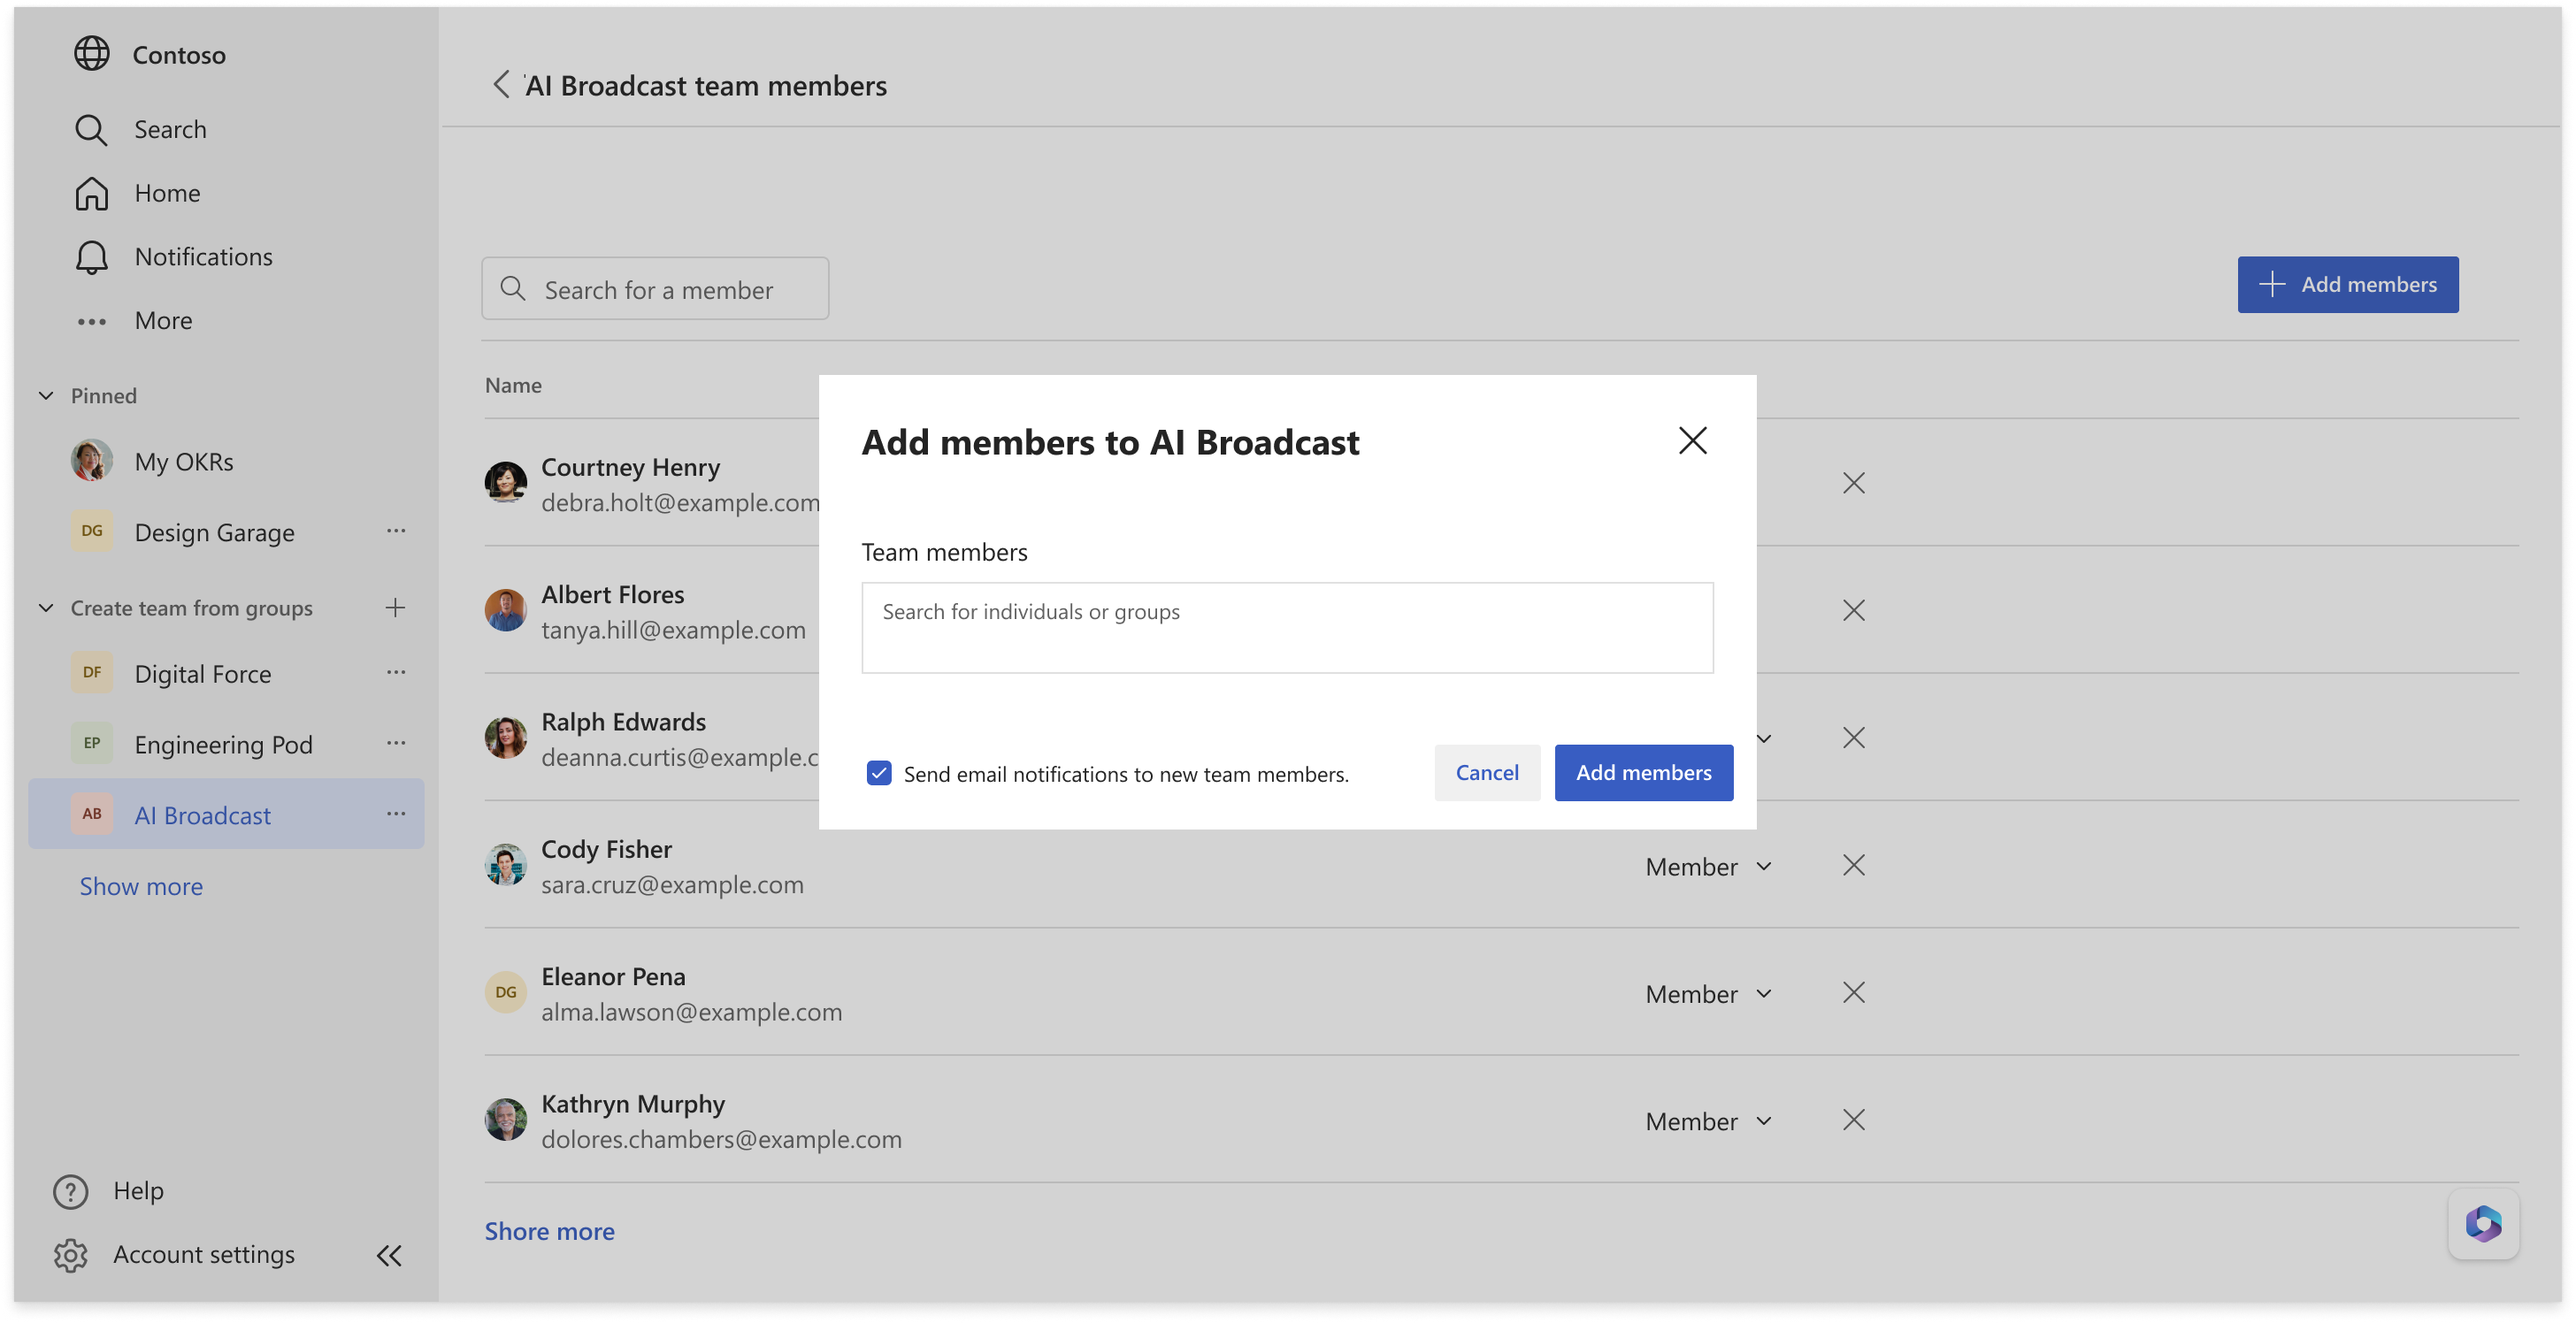
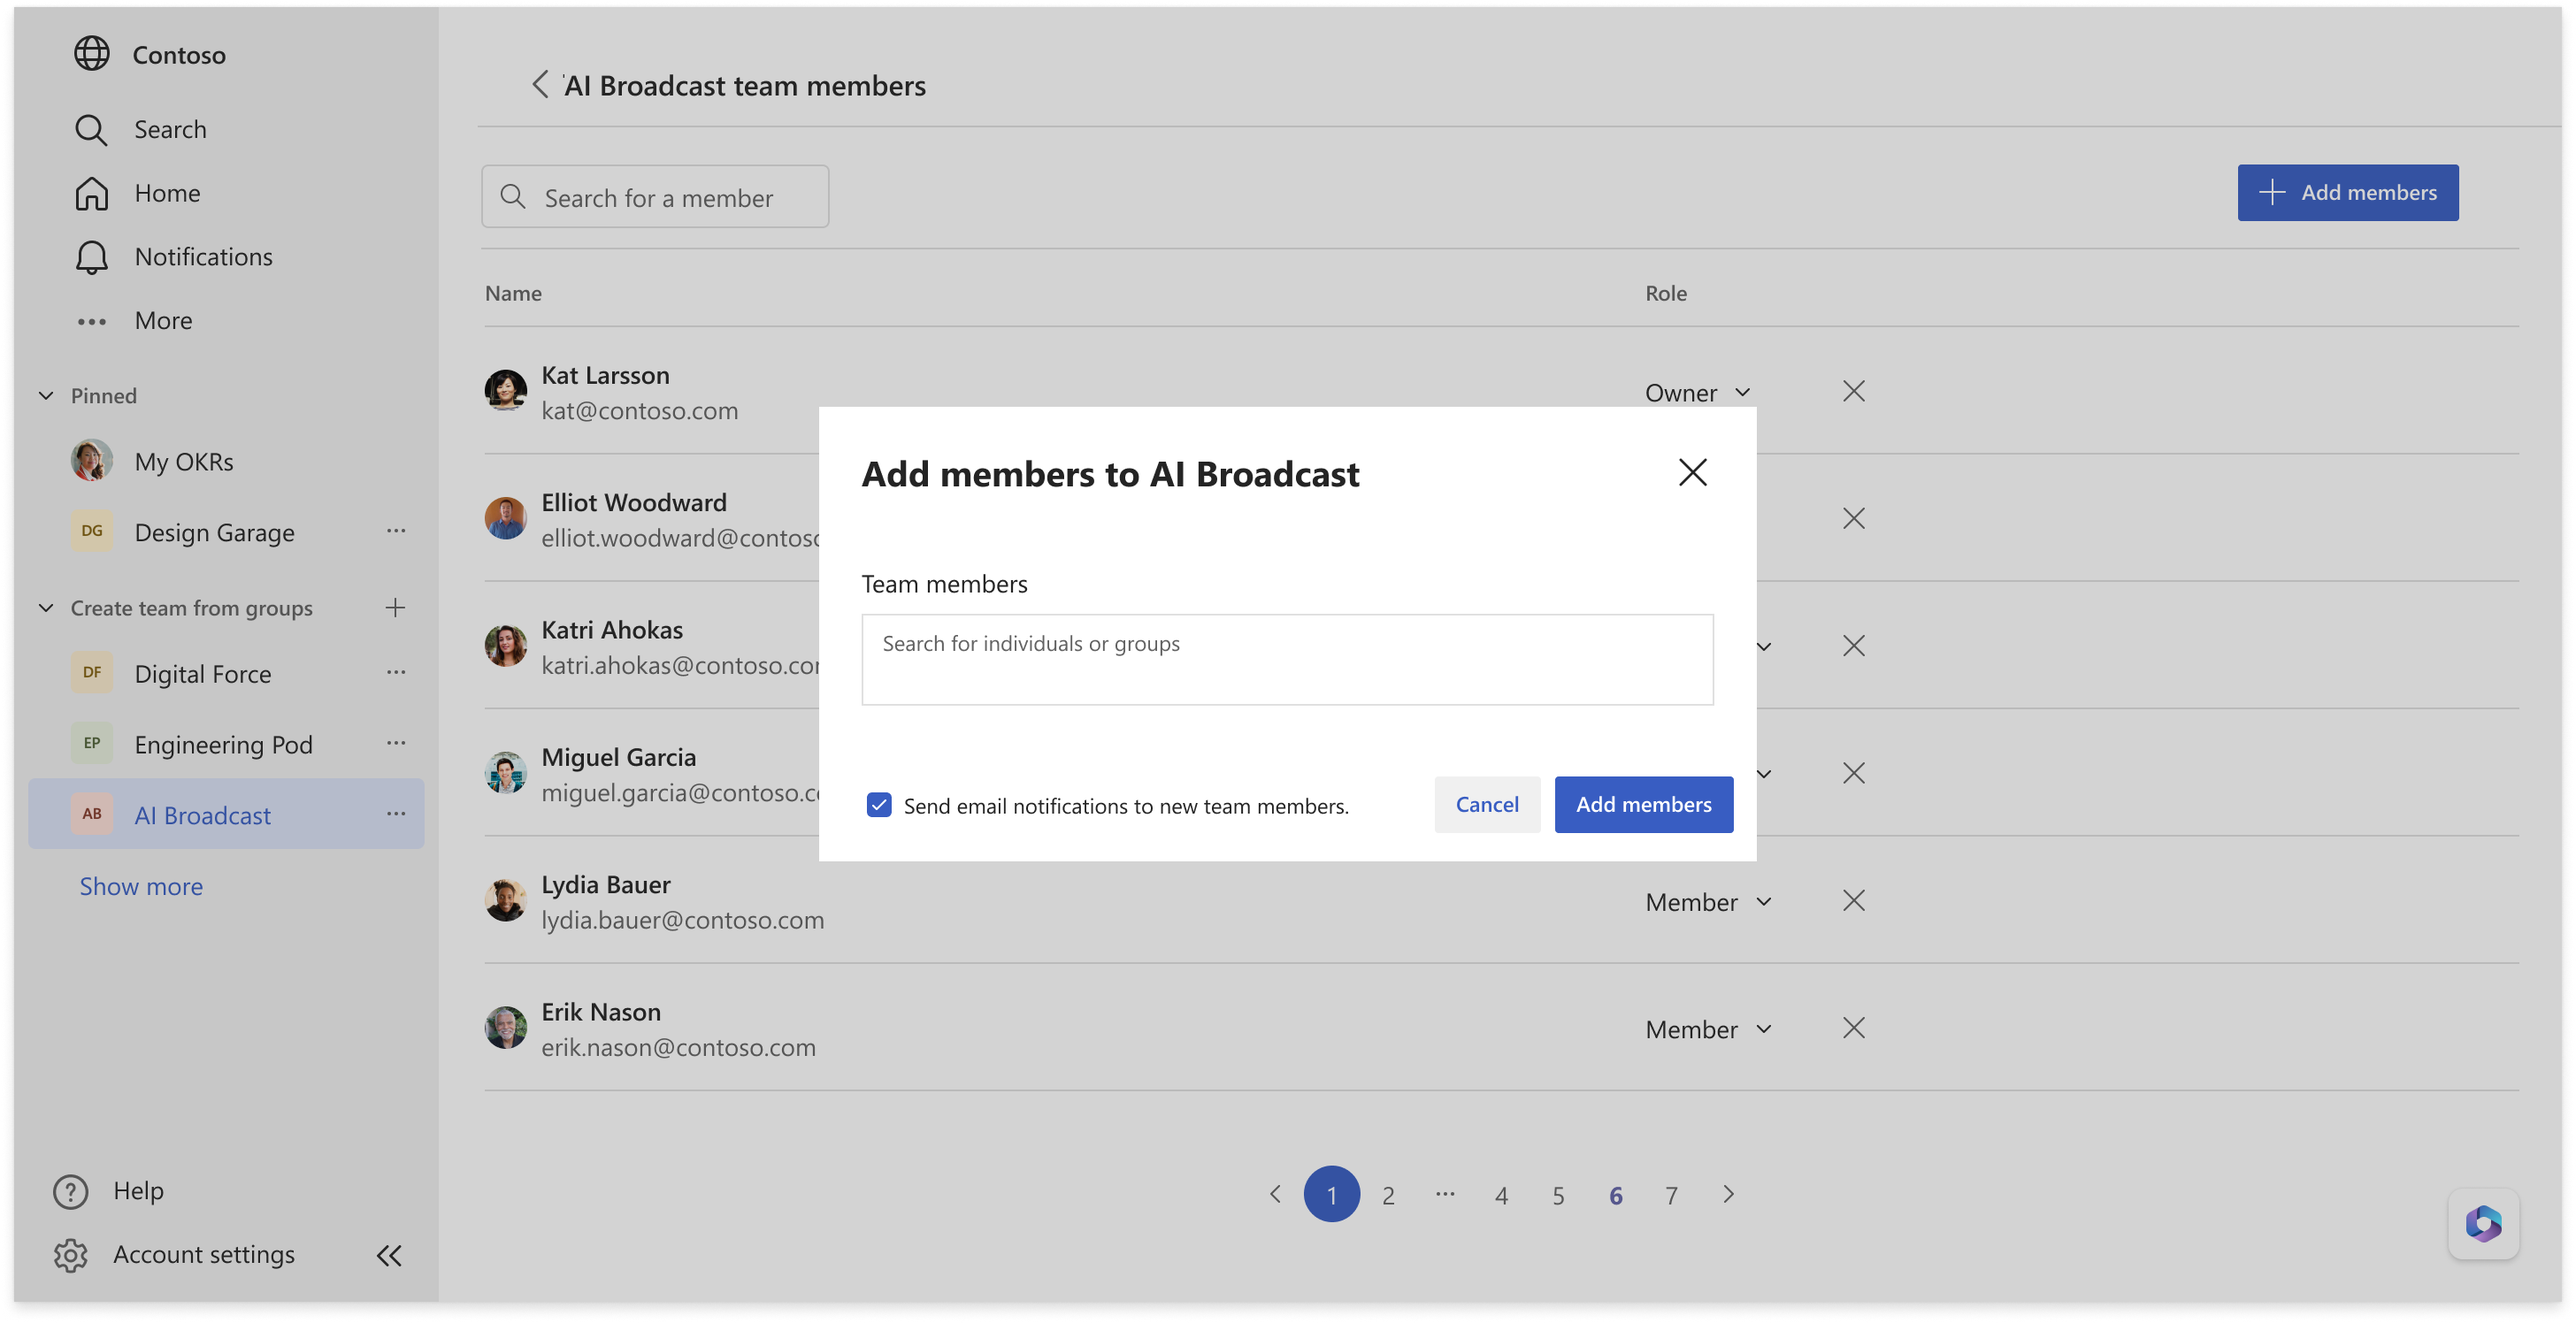
CELA images and editor's notes
Replaced necessary images with versions featuring CELA-improved names and removed editor's notes.

diff --git a/Viva/goals/delete-archive-restore-m365-group-connected-team.md b/Viva/goals/delete-archive-restore-m365-group-connected-team.md
@@ -1,5 +1,5 @@
 ---
-ms.date: 01/23/2024
+ms.date: 02/28/2024
 title: Delete, archive, or restore a Microsoft 365 group-connected team
 ms.reviewer: 
 ms.author: v-nstockwell
@@ -36,7 +36,7 @@ If the connected group is deleted, the Viva Goals team connected to that group w
 
 In general, it's better to archive teams that are no longer in service so that the collection of teams remains relevant for use. Once a team has been archived, you'll no longer be able to create OKRs and initiatives for that team, and no user will be considered a part of that team. Furthermore, any subteams will become independent teams in Viva Goals. OKRs previously assigned to the archived team will still be accessible: that is, you'll still be able to perform actions on them, such as check-ins.
 
-Even though you won't be able to see the archived team on the All Teams page <!--Editor's Note: I'd like clarification on "All Teams" vs "Teams" tab. Are they the same? If so, which is correct? Let's make sure we're using the correct terminology here. Claririfcation: "All Teams" is a page. "Teams" is a tab.-->now, you will be able to see the assigned OKRs by expanding the parent OKRs they're aligned to. you can also view those OKRs and initiatives in the Explorer by applying the **Type** filter and selecting the archived team's name.
+Even though you won't be able to see the archived team on the All Teams page now, you will be able to see the assigned OKRs by expanding the parent OKRs they're aligned to. you can also view those OKRs and initiatives in the Explorer by applying the **Type** filter and selecting the archived team's name.
 
 Any activities related to the archive team will be halted, including the assigning of new team members and any team-level notifications. These activities won't resume unless the team is restored.
 
@@ -50,7 +50,7 @@ Once a team has been archived, it will be marked as **Archived** on the **Teams*
 
 ## Restore an archived team
 
-Archiving a team isn't permanent. To restore an archived team, go to **Admin** > **Teams** > **Actions** and select **Restore** for the team you want to restore. Alternatively, you can visit the team's OKRs page, select the three dots in the upper right, and choose **Restore this team**. <!--Editor's Note: Again, see above: we have 'Team OKRs page,' 'team's OKR page,' and now 'team OKRs page'. I need to know what the differences between these are, if any. Clarification: There are no differences. There the same thing.-->
+Archiving a team isn't permanent. To restore an archived team, go to **Admin** > **Teams** > **Actions** and select **Restore** for the team you want to restore. Alternatively, you can visit the team's OKRs page, select the three dots in the upper right, and choose **Restore this team**.
 
 ## End of lifecycle options
 

diff --git a/Viva/goals/viva-goals-teams-intro.md b/Viva/goals/viva-goals-teams-intro.md
@@ -1,5 +1,5 @@
 ---
-ms.date: 01/23/2024
+ms.date: 02/28/2024
 title: Introduction to teams in Viva Goals
 ms.reviewer: 
 ms.author: v-nstockwell
@@ -42,7 +42,7 @@ Here are the three main capabilities that teams in Viva Goals have to help run s
 
 - **Dashboards** - A dashboard is a shared canvas to which team owners can add OKR-specific widgets that help run business review meetings. A team can have multiple dashboards.
 
-- **Analytics** - Surfaces metrics and reports to Helps understand OKR adoption and usage within the team and subteams. <!--Editor's Note: What is this saying?-->
+- **Analytics** - Surfaces metrics and reports to help understand OKR adoption and usage within the team and subteams.
 
 ## Types of teams in Viva Goals
 
@@ -54,7 +54,7 @@ There are two types of teams in Viva Goals:
 
 | Characteristic | Microsoft 365 group-connected teams | Native teams |
 |--- | --- | --- |
-|Membership | Members can be added within or outside Viva Goals.<br>When adding members to these connected teams, users can pull members from different types of groups; the members are pulled one time and added to the group. | Members can only be added within Viva Goals. When adding members, multiple groups can be added as members.<!--Editor's Note: These require clarification.--> |
+|Membership | Members can be added within or outside Viva Goals.<br>When adding members to these connected teams, users can pull members from different types of groups; the members are pulled one time and added to the group. | Members can only be added within Viva Goals. When adding members, multiple groups can be added as members. |
 | Expiration policies | Follows expiration policy of connected Microsoft 365 group. | No expiration policies. |
 | Administration | Organization owners can remove a team from the organization but can't add members to the team unless they're owners of the team/group. | Organization owners have full access to the team. |
 | Lifecycle | Teams can be archived within Viva Goals, but they can't be deleted within Viva Goals: the associated groups can be deleted in other Microsoft 365 services. | Teams can be deleted within Viva Goals. |

diff --git a/Viva/goals/create-viva-goals-team-from-m365-group.md b/Viva/goals/create-viva-goals-team-from-m365-group.md
@@ -1,5 +1,5 @@
 ---
-ms.date: 01/23/2024
+ms.date: 02/28/2024
 title: Use your Microsoft 365 groups as teams in Viva Goals
 ms.reviewer: 
 ms.author: v-nstockwell
@@ -32,7 +32,7 @@ There are two ways to create teams from your groups in Viva Goals:
 
 ### Use the left nav
 
-If you already own a Microsoft 365 group or Microsoft Teams team, you'll find that group under *Create team from groups* in the left nav in Viva Goals. Select the group, then select **Confirm** in the resulting dialog. <!--Editor's Note: Instructions unclear. "You can choose the group that you want to use as Viva Goals team, click and confirm, to easily start using that group." Also, images unclear. Note: Images will be replaced.-->
+If you already own a Microsoft 365 group or Microsoft Teams team, you'll find that group under *Create team from groups* in the left nav in Viva Goals. Select the group, then select **Confirm** in the resulting dialog.
 
 ![Screenshot that shows a view of a Viva Goals user's OKRs tab, including the Create team from groups section in the left nav.](..\media\goals\viva-goals-teams\m365-team-creation.png)
 
@@ -65,5 +65,3 @@ Because the Viva Goals team is created from the Microsoft 365 group, all members
     - **Parent team** - If your team is a division, department, or subteam of another team, you can select that team as your parent team here. Once you select a parent team, your team will use the parent team's OKR settings (such as check-in frequency and OKR creation permissions) as its defaults. Your team will also appear as a subteam underneath your parent team in the navigation.
 
     - **Visibility toggle** - If you want all members of your Viva Goals organization to be able to view your team's OKRs and related content, this toggle should be set to on: otherwise, set it to off. By default, the toggle is on.
-
-<!--Editor's Note: There's supposed to be an FAQ here, but I've been advised against including FAQ sections, so I'm going to omit it for now.-->

diff --git a/Viva/goals/manage-group-connected-team-members.md b/Viva/goals/manage-group-connected-team-members.md
@@ -1,5 +1,5 @@
 ---
-ms.date: 01/23/2024
+ms.date: 02/28/2024
 title: Manage members of a Microsoft 365 group-connected team in Viva Goals
 ms.reviewer: 
 ms.author: v-nstockwell
@@ -45,7 +45,7 @@ Team owners and admins can add members to teams in Viva Goals, whether those tea
 
 ## Make a team member a team owner or remove a team member from the team
 
-1. Go to the team's OKRs page. Select the three dots in the top right and choose **Team members**. This will take you to the Team Members page. <!--Editor's Note: Make sure that "Team Members" is written in a manner faithful to the UI throughout the article.-->
+1. Go to the team's OKRs page. Select the three dots in the top right and choose **Team members**. This will take you to the Team Members page.
 
 1. Find or search for the team member you want to make changes to.
 
@@ -54,5 +54,3 @@ Team owners and admins can add members to teams in Viva Goals, whether those tea
 1. To remove the team member from the team, select the **X** icon next to that member. They will also be removed from the associated Microsoft 365 group.
 
 ![Screenshot that shows a view of the team members page, with the Role dropdown for a certain member expanded.](..\media\goals\viva-goals-teams\change-member-role.png)
-
-<!--Editor's Note: There was an FAQ here, but I've been advised against including FAQs in help documentation.-->
